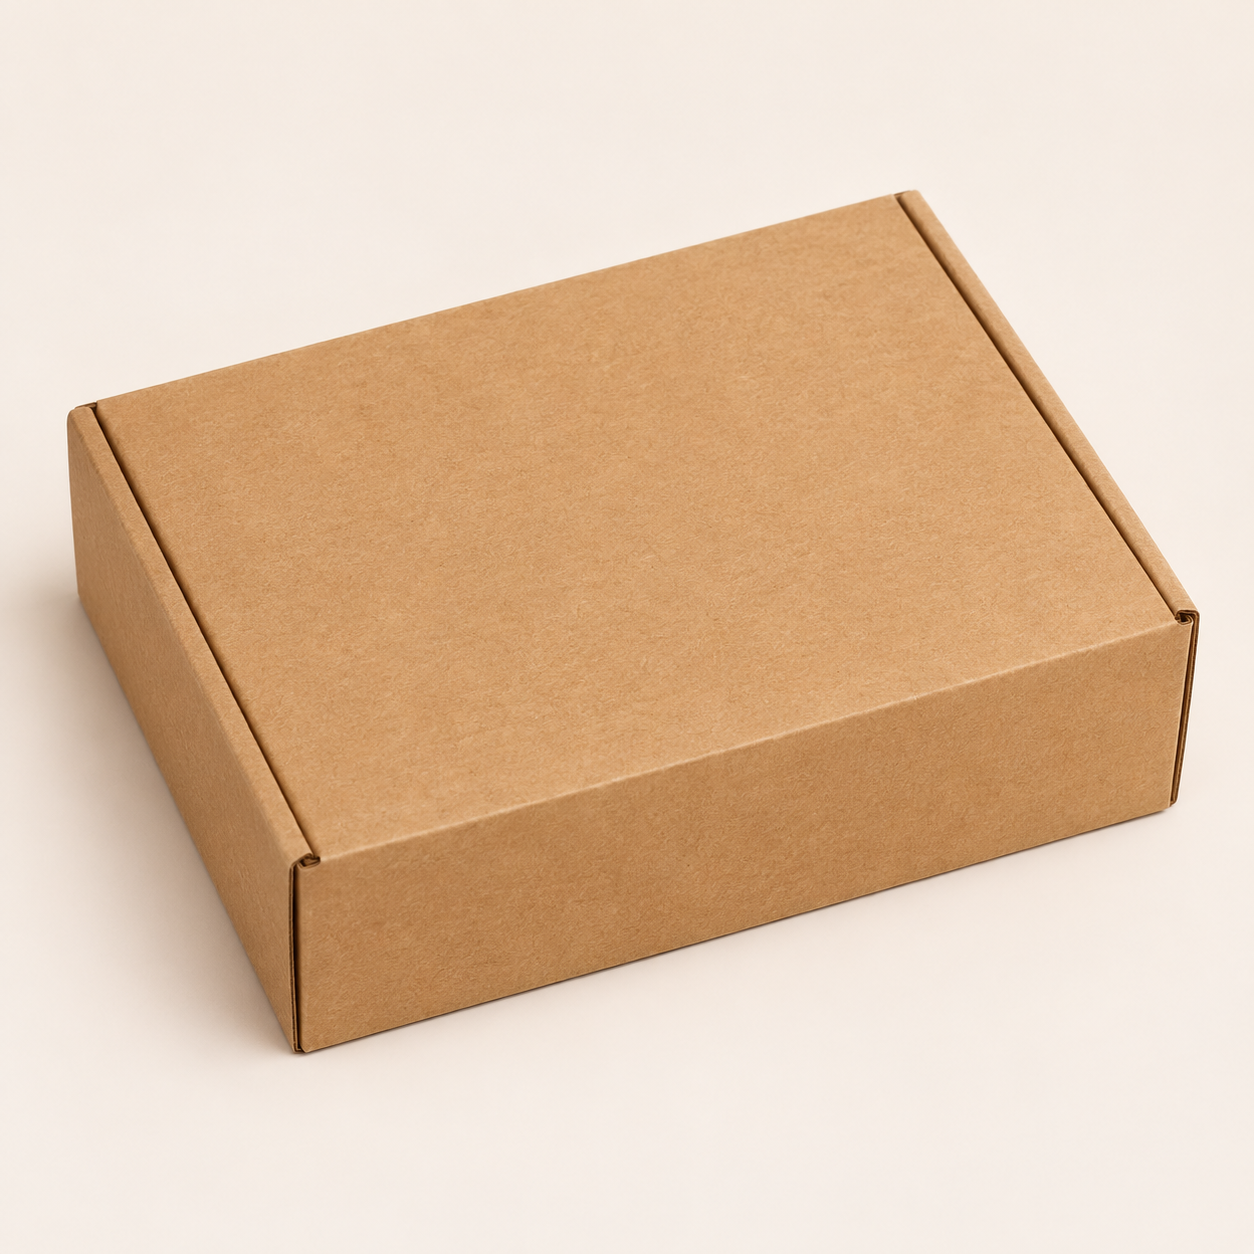
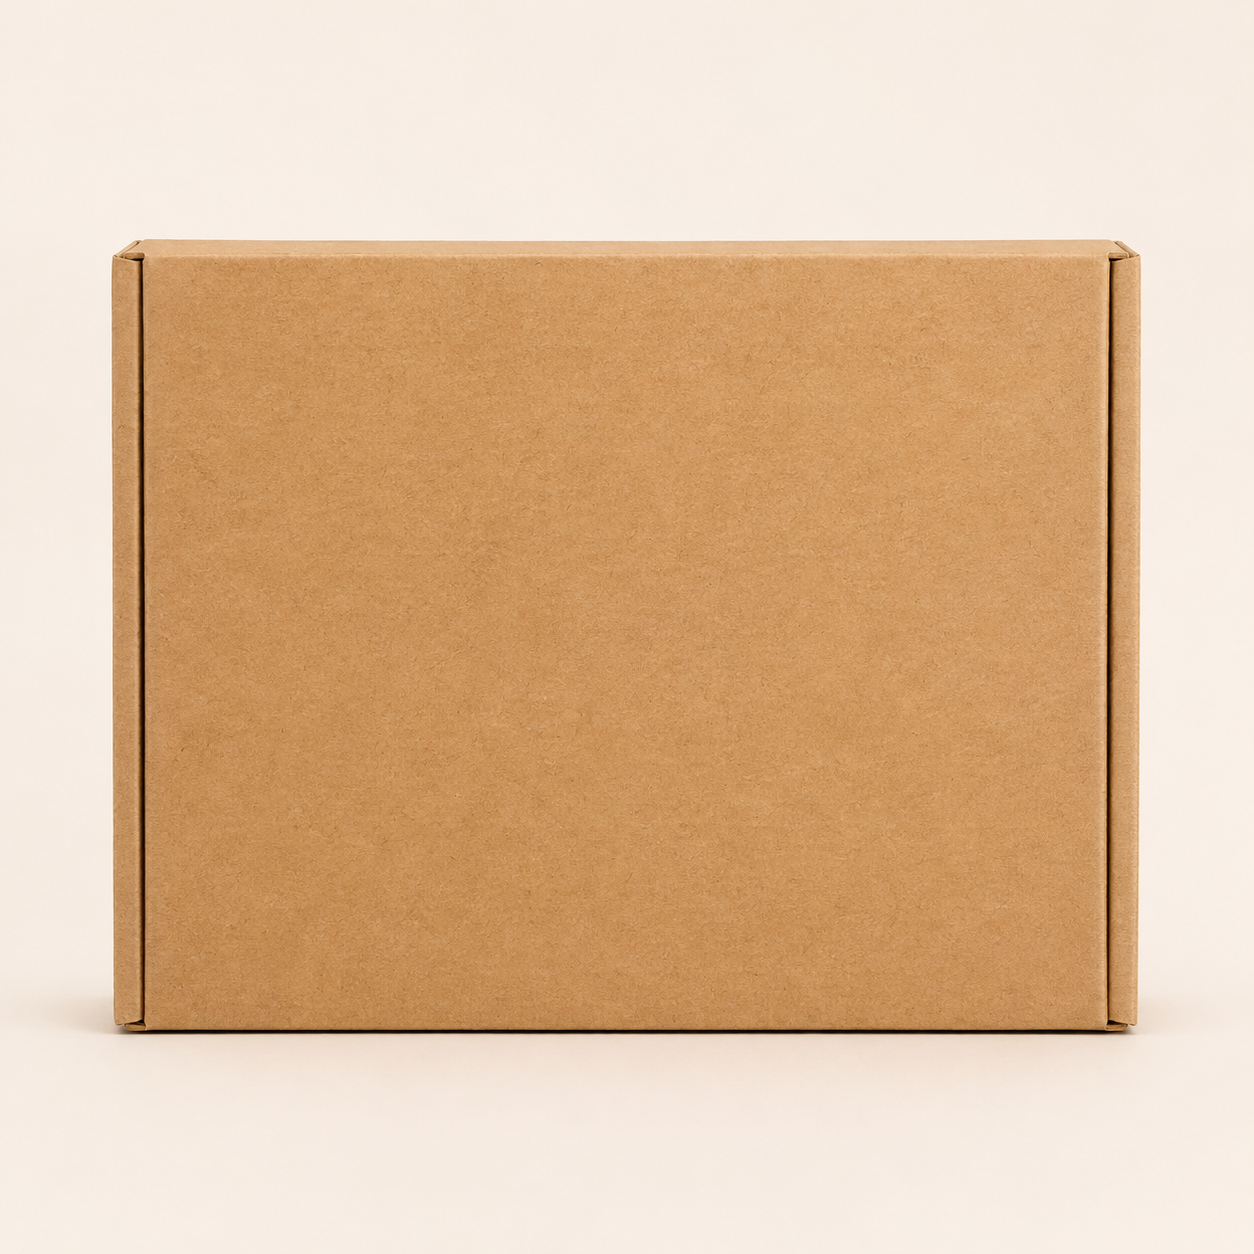
Improve box preview and add fullscreen viewer

Changed region(s): [[0.0, 0.1555, 0.9641, 0.8397], [0.6531, 0.2799, 0.7153, 0.311]]

diff --git a/line art/extensions/stamp-upload/assets/stamp-upload-core.js b/line art/extensions/stamp-upload/assets/stamp-upload-core.js
@@ -707,6 +707,108 @@
     if (retry) retry.hidden = state !== "failed";
   }
 
+  let activeStampPreviewTrigger = null;
+
+  function closeStampPreviewLightbox() {
+    const lightbox = document.querySelector("[data-stamp-preview-lightbox]");
+    if (!lightbox || lightbox.hidden) return;
+
+    const image = find(lightbox, "[data-stamp-preview-lightbox-image]");
+    lightbox.hidden = true;
+    document.body.classList.remove("smm-preview-lightbox-open");
+
+    if (image) image.removeAttribute("src");
+    if (activeStampPreviewTrigger) activeStampPreviewTrigger.focus();
+    activeStampPreviewTrigger = null;
+  }
+
+  function getStampPreviewLightbox() {
+    const existing = document.querySelector("[data-stamp-preview-lightbox]");
+    if (existing) return existing;
+
+    const lightbox = document.createElement("div");
+    lightbox.className = "smm-preview-lightbox";
+    lightbox.dataset.stampPreviewLightbox = "true";
+    lightbox.hidden = true;
+
+    const dialog = document.createElement("div");
+    dialog.className = "smm-preview-lightbox__dialog";
+    dialog.setAttribute("role", "dialog");
+    dialog.setAttribute("aria-modal", "true");
+    dialog.setAttribute("aria-labelledby", "smm-preview-lightbox-caption");
+
+    const closeButton = document.createElement("button");
+    closeButton.type = "button";
+    closeButton.className = "smm-preview-lightbox__close";
+    closeButton.setAttribute("aria-label", "Close fullscreen preview");
+    closeButton.textContent = "×";
+    closeButton.addEventListener("click", closeStampPreviewLightbox);
+
+    const image = document.createElement("img");
+    image.className = "smm-preview-lightbox__image";
+    image.dataset.stampPreviewLightboxImage = "true";
+
+    const caption = document.createElement("p");
+    caption.className = "smm-preview-lightbox__caption";
+    caption.id = "smm-preview-lightbox-caption";
+    caption.dataset.stampPreviewLightboxCaption = "true";
+
+    dialog.appendChild(closeButton);
+    dialog.appendChild(image);
+    dialog.appendChild(caption);
+    lightbox.appendChild(dialog);
+    lightbox.addEventListener("click", (event) => {
+      if (event.target === lightbox) closeStampPreviewLightbox();
+    });
+    document.addEventListener("keydown", (event) => {
+      if (event.key === "Escape" && !lightbox.hidden) {
+        closeStampPreviewLightbox();
+      }
+    });
+    document.body.appendChild(lightbox);
+
+    return lightbox;
+  }
+
+  function openStampPreviewLightbox(card) {
+    if (!card || card.dataset.state !== "ready") return;
+
+    const sourceImage = find(card, "[data-stamp-preview-image]");
+    if (!sourceImage || !sourceImage.src) return;
+
+    const lightbox = getStampPreviewLightbox();
+    const image = find(lightbox, "[data-stamp-preview-lightbox-image]");
+    const caption = find(lightbox, "[data-stamp-preview-lightbox-caption]");
+    const label = find(card, "figcaption")?.textContent?.trim() || "Stamp preview";
+
+    activeStampPreviewTrigger = card;
+    image.src = sourceImage.currentSrc || sourceImage.src;
+    image.alt = sourceImage.alt || label;
+    caption.textContent = label;
+    lightbox.hidden = false;
+    document.body.classList.add("smm-preview-lightbox-open");
+    find(lightbox, ".smm-preview-lightbox__close")?.focus();
+  }
+
+  function enableStampPreviewLightbox(root) {
+    root.querySelectorAll("[data-stamp-preview-card]").forEach((card) => {
+      if (card.dataset.stampPreviewLightboxReady === "true") return;
+
+      const label = find(card, "figcaption")?.textContent?.trim() || "Stamp preview";
+      card.dataset.stampPreviewLightboxReady = "true";
+      card.setAttribute("role", "button");
+      card.setAttribute("aria-label", `Open ${label} fullscreen`);
+      card.setAttribute("aria-disabled", card.dataset.state === "ready" ? "false" : "true");
+      card.tabIndex = card.dataset.state === "ready" ? 0 : -1;
+      card.addEventListener("click", () => openStampPreviewLightbox(card));
+      card.addEventListener("keydown", (event) => {
+        if (event.key !== "Enter" && event.key !== " ") return;
+        event.preventDefault();
+        openStampPreviewLightbox(card);
+      });
+    });
+  }
+
   function setStampPreviewCard(root, kind, state, previewUrl) {
     const card = find(root, `[data-stamp-preview-card="${kind}"]`);
     if (!card) return;
@@ -720,6 +822,8 @@
     };
 
     card.dataset.state = state;
+    card.setAttribute("aria-disabled", state === "ready" ? "false" : "true");
+    card.tabIndex = state === "ready" ? 0 : -1;
     if (status) status.textContent = labels[state] || "";
 
     if (image) {
@@ -957,6 +1061,7 @@
     if (required) {
       setAddToCartEnabled(form, false);
     }
+    enableStampPreviewLightbox(root);
     setTextFieldsVisible(root, false, false);
     setButton(trigger, "idle", idleLabel);
 

diff --git a/line art/extensions/stamp-upload/assets/stamp-upload.css b/line art/extensions/stamp-upload/assets/stamp-upload.css
@@ -393,6 +393,21 @@
   overflow: hidden;
 }
 
+.smm-upload__stamp-preview-card[data-state="ready"] {
+  cursor: zoom-in;
+}
+
+.smm-upload__stamp-preview-card[data-state="ready"]:hover {
+  border-color: #8f8a81;
+  box-shadow: 0 8px 24px rgba(36, 31, 24, 0.12);
+  transform: translateY(-1px);
+}
+
+.smm-upload__stamp-preview-card:focus-visible {
+  outline: 3px solid #1f6fbd;
+  outline-offset: 3px;
+}
+
 .smm-upload__stamp-preview-media {
   align-items: center;
   aspect-ratio: 1 / 1;
@@ -528,6 +543,90 @@
   color: #b42318;
 }
 
+body.smm-preview-lightbox-open {
+  overflow: hidden;
+}
+
+.smm-preview-lightbox {
+  align-items: center;
+  background: rgba(12, 12, 12, 0.9);
+  display: flex;
+  inset: 0;
+  justify-content: center;
+  padding: 24px;
+  position: fixed;
+  z-index: 2147483000;
+}
+
+.smm-preview-lightbox[hidden] {
+  display: none;
+}
+
+.smm-preview-lightbox__dialog {
+  background: #fff;
+  border-radius: 18px;
+  box-shadow: 0 28px 90px rgba(0, 0, 0, 0.45);
+  max-height: calc(100vh - 48px);
+  max-width: min(1024px, calc(100vw - 48px));
+  overflow: hidden;
+  position: relative;
+  width: max-content;
+}
+
+.smm-preview-lightbox__image {
+  background: #f6f3ee;
+  display: block;
+  height: auto;
+  max-height: calc(100vh - 122px);
+  max-width: min(1024px, calc(100vw - 48px));
+  object-fit: contain;
+  width: auto;
+}
+
+.smm-preview-lightbox__caption {
+  background: #fff;
+  color: #171717;
+  font-size: 18px;
+  font-weight: 750;
+  line-height: 1.2;
+  margin: 0;
+  min-height: 52px;
+  padding: 15px 22px;
+}
+
+.smm-preview-lightbox__close {
+  align-items: center;
+  appearance: none;
+  background: rgba(0, 0, 0, 0.86);
+  border: 1px solid rgba(255, 255, 255, 0.5);
+  border-radius: 999px;
+  color: #fff;
+  cursor: pointer;
+  display: inline-flex;
+  font-family: Arial, sans-serif;
+  font-size: 28px;
+  font-weight: 400;
+  height: 44px;
+  justify-content: center;
+  line-height: 1;
+  padding: 0 0 3px;
+  position: absolute;
+  right: 14px;
+  top: 14px;
+  width: 44px;
+  z-index: 2;
+}
+
+.smm-preview-lightbox__close:hover {
+  background: #000;
+  transform: scale(1.04);
+}
+
+.smm-preview-lightbox__close:focus-visible {
+  outline: 3px solid #fff;
+  outline-offset: 3px;
+}
+
 @keyframes smm-preview-spin {
   to { transform: rotate(360deg); }
 }
@@ -557,6 +656,11 @@
   .smm-upload__stamp-preview-orb,
   .smm-upload__stamp-preview-sheen {
     animation: none;
+  }
+
+  .smm-upload__stamp-preview-card[data-state="ready"]:hover,
+  .smm-preview-lightbox__close:hover {
+    transform: none;
   }
 }
 
@@ -592,6 +696,33 @@
     font-size: 15px;
     min-height: 38px;
     padding: 7px 10px;
+  }
+
+  .smm-preview-lightbox {
+    padding: 12px;
+  }
+
+  .smm-preview-lightbox__dialog {
+    max-height: calc(100vh - 24px);
+    max-width: calc(100vw - 24px);
+  }
+
+  .smm-preview-lightbox__image {
+    max-height: calc(100vh - 94px);
+    max-width: calc(100vw - 24px);
+  }
+
+  .smm-preview-lightbox__caption {
+    font-size: 16px;
+    min-height: 46px;
+    padding: 13px 16px;
+  }
+
+  .smm-preview-lightbox__close {
+    height: 40px;
+    right: 10px;
+    top: 10px;
+    width: 40px;
   }
 
 }

diff --git a/line art/app/lib/stamp-previews.server.ts b/line art/app/lib/stamp-previews.server.ts
@@ -8,7 +8,7 @@ import { fetchStoredFile, storageBucket, uploadStoredFile } from "./storage.serv
 export const stampPreviewKinds = ["box", "cup", "bag"] as const;
 export type StampPreviewKind = (typeof stampPreviewKinds)[number];
 
-const stampPreviewRenderer = "deterministic-v1";
+const stampPreviewRenderer = "deterministic-v2";
 
 const configureFal = () => {
   fal.config({ credentials: requireServerEnv("FAL_KEY") });

diff --git a/line art/app/lib/stamp-preview-renderer.server.ts b/line art/app/lib/stamp-preview-renderer.server.ts
@@ -12,10 +12,10 @@ const artworkContentSize = 430;
 
 const placementQuads: Record<StampPreviewKind, Quad> = {
   box: [
-    { x: 350, y: 330 },
-    { x: 650, y: 250 },
-    { x: 720, y: 420 },
-    { x: 395, y: 510 }
+    { x: 302, y: 302 },
+    { x: 722, y: 302 },
+    { x: 722, y: 722 },
+    { x: 302, y: 722 }
   ],
   cup: [
     { x: 355, y: 435 },
